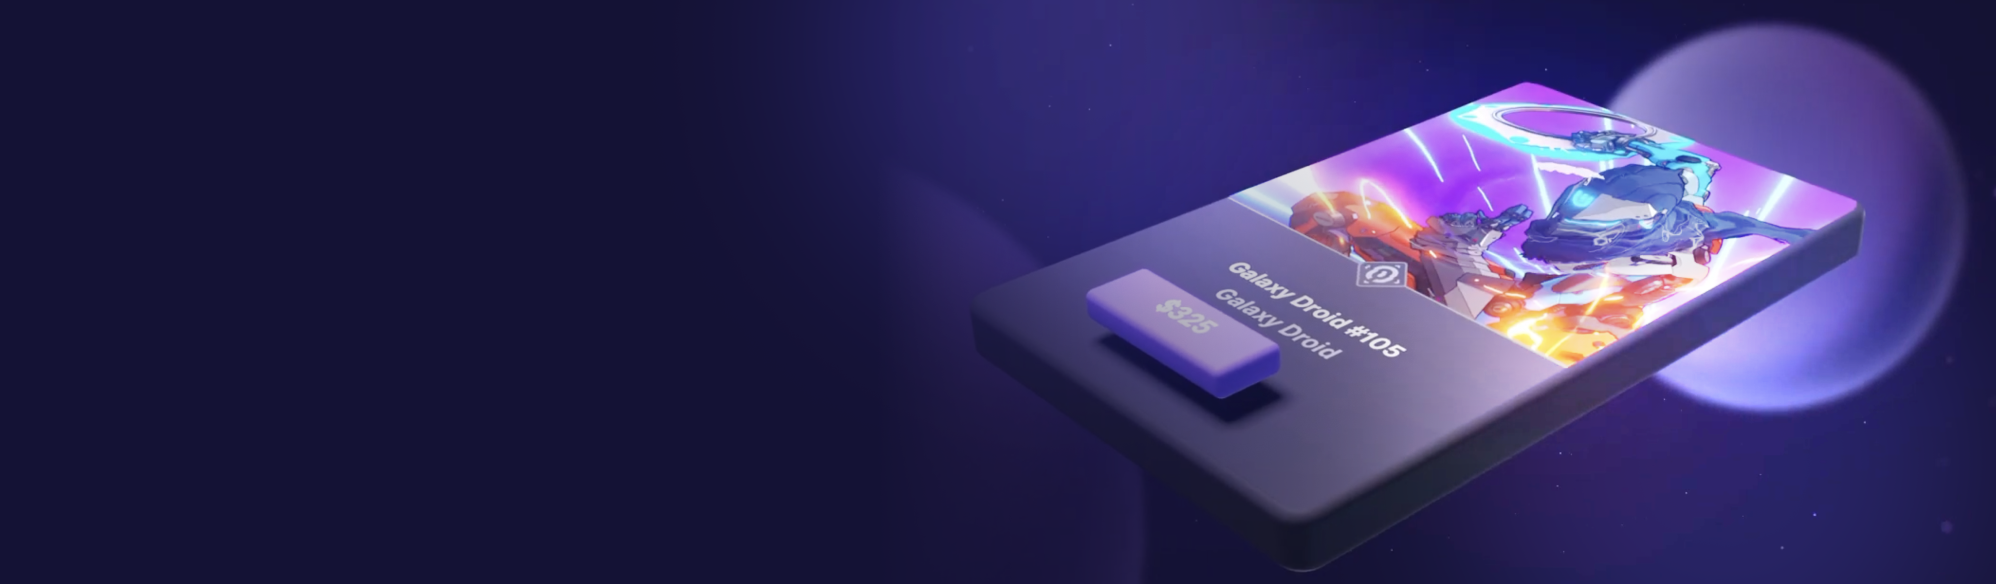
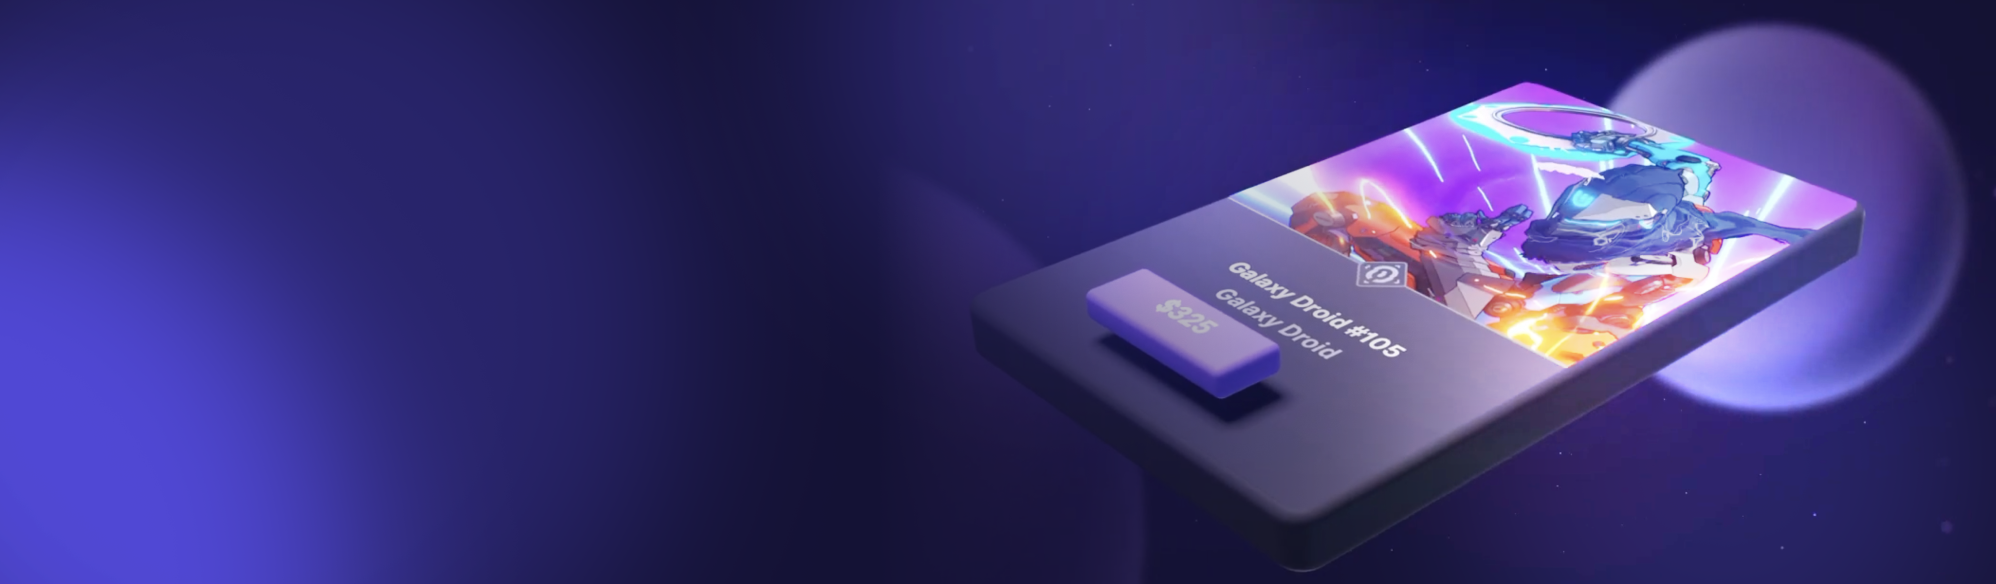
Legibility

diff --git a/components/MergedProjects.vue b/components/MergedProjects.vue
@@ -137,6 +137,10 @@ export default {
     position: relative;
     background-size: cover;
 
+    &.ultra {
+      background-position: right center;
+    }
+
     &:after {
       content: '';
       position: absolute;
@@ -166,16 +170,16 @@ export default {
       }
 
       .tag {
-        color: $white;
+        color: $black;
         margin: $spacing-md $spacing-md 0 $spacing-md;
-        padding: $spacing-xs $spacing-sm;
-        border: 2px solid $white;
+        padding: $spacing-xxs $spacing-xs;
+        background: rgba($white, 1);
         align-self: flex-start;
         border-radius: 4px;
         z-index: 2;
         font-size: $font-size-xs;
         text-transform: uppercase;
-        mix-blend-mode: overlay;
+        font-weight: bold;
       }
     }
 
@@ -184,7 +188,7 @@ export default {
       font-size: 5.2vw;
       border: 0;
       line-height: 100%;
-      margin: $spacing-sm $spacing-md $spacing-md $spacing-md;
+      margin: $spacing-xs $spacing-md $spacing-md $spacing-md;
       padding: 0;
       text-wrap: balance;
       font-family: $font-family-secondary;
